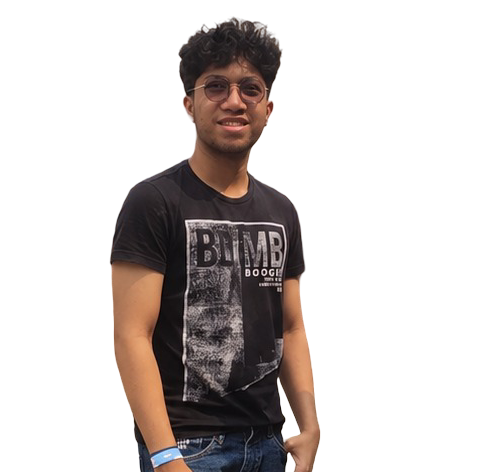
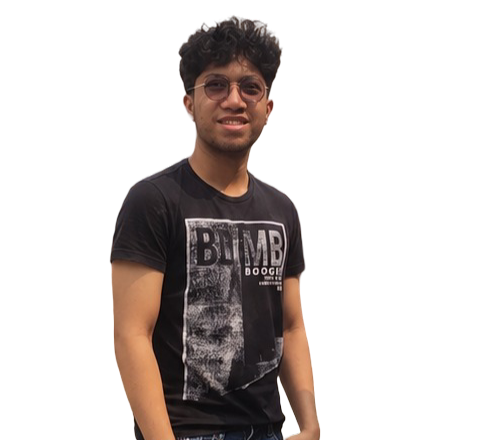
change photo size and change svg shape

Changed region(s): [[0.2169, 0.0886, 0.6818, 1.0], [0.3719, 0.0295, 0.5579, 0.1182], [0.2169, 0.65, 0.2479, 0.6795]]

diff --git a/src/app/component/hero.js b/src/app/component/hero.js
@@ -102,25 +102,36 @@ export default function Hero() {
  
       {/* FOTO */}
       <div className="relative flex justify-center md:justify-end order-1 md:order-2">
-        <div className="relative w-full max-w-[520px]">
-          <span className="absolute top-[6%] left-[16%] w-28 h-28 rounded-full bg-white/90 blur-xl" />
+        <div className="relative w-full max-w-[300px] md:max-w-[380px]">
+          {/* cahaya halus di dekat kepala */}
+          <span className="absolute top-[10%] left-[6%] w-24 h-24 rounded-full bg-white/90 blur-xl" />
+
+          {/* bentuk organik, kompak, berpusat di belakang torso */}
           <svg
             aria-hidden
-            viewBox="0 0 400 370"
-            className="absolute bottom-0 left-[54%] -translate-x-1/2 w-[105%] text-[var(--soft)]"
+            viewBox="0 0 400 400"
+            className="absolute left-[47%] top-[58%] -translate-x-1/2 -translate-y-1/2 w-[106%] aspect-square text-[#d6daf5]"
           >
             <path
               fill="currentColor"
-              d="M60 330c-20-60 10-120 60-170s110-90 170-100c40-6 80 10 90 50 12 50-30 90-70 130-30 30-30 70-70 90-50 26-150 20-180-0z"
+              d="M205 38C295 28 372 105 358 200C346 292 285 372 190 364C98 356 34 290 44 198C54 108 118 48 205 38Z"
             />
           </svg>
+
           <Image
             src="/Photo/meRemoveBG2.png"
             alt="Emanuel Enrico Anindya Wibawa"
             width={520}
-            height={620}
+            height={800}
+            sizes="(min-width: 768px) 380px, 300px"
             priority
-            className="relative z-10 w-full h-auto grayscale [mask-image:linear-gradient(to_bottom,black_85%,transparent)]"
+            className="relative z-10 w-full h-auto grayscale"
+            style={{
+              WebkitMaskImage:
+                "linear-gradient(to bottom, #000 0%, #000 52%, rgba(0,0,0,.92) 60%, rgba(0,0,0,.72) 70%, rgba(0,0,0,.42) 80%, rgba(0,0,0,.16) 90%, transparent 100%)",
+              maskImage:
+                "linear-gradient(to bottom, #000 0%, #000 52%, rgba(0,0,0,.92) 60%, rgba(0,0,0,.72) 70%, rgba(0,0,0,.42) 80%, rgba(0,0,0,.16) 90%, transparent 100%)",
+            }}
           />
         </div>
       </div>
